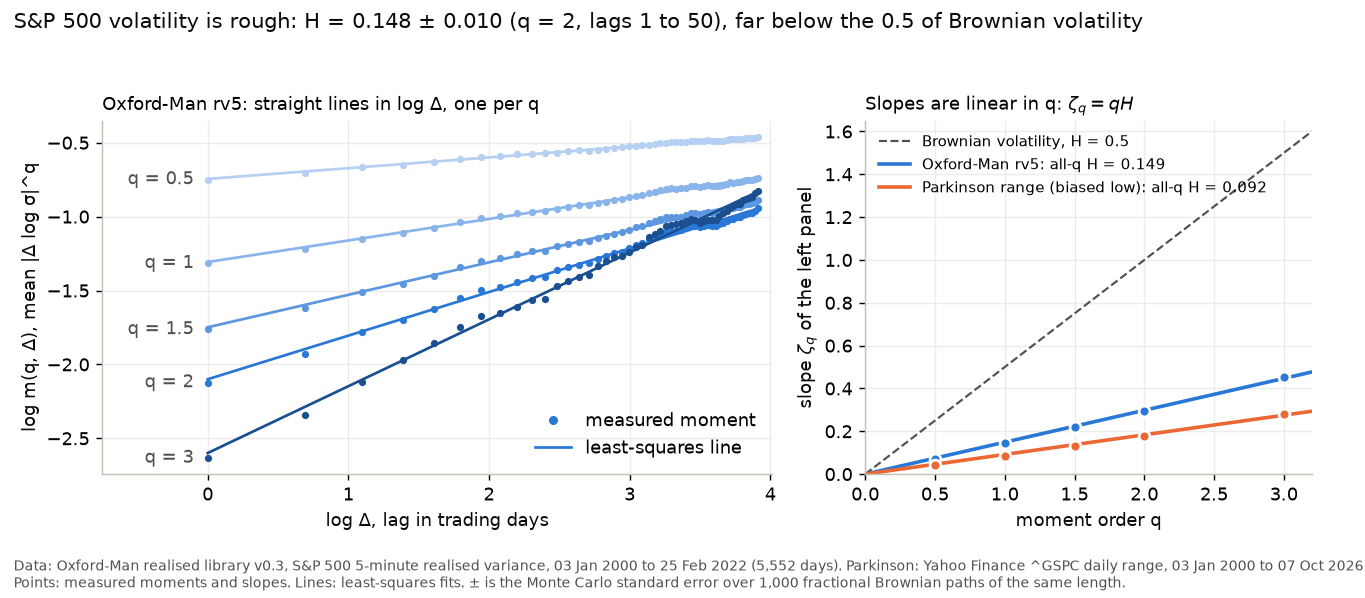
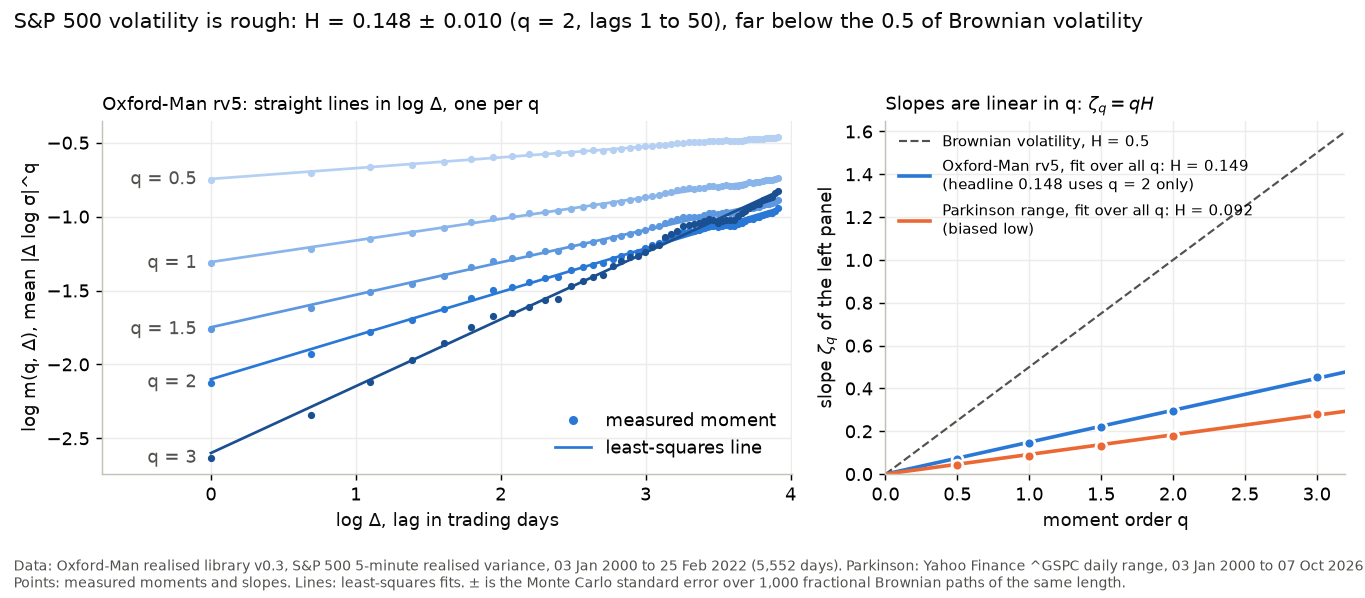
Label the all-q fit in the README figure legend
The legend of docs/hurst_spx.png now says the 0.149 is a fit over all q and the 0.148 headline uses q = 2 only.

diff --git a/docs/make_readme_figure.py b/docs/make_readme_figure.py
@@ -69,11 +69,16 @@ ax1.legend(
 
 qq = np.linspace(0, 3.2, 10)
 ax2.plot(qq, 0.5 * qq, "--", lw=1.2, color=MUTED, label="Brownian volatility, H = 0.5")
-for fit, c, name in [
-    (fit_om, BLUE, "Oxford-Man rv5"),
-    (fit_pk, ORANGE, "Parkinson range (biased low)"),
+for fit, c, label in [
+    (
+        fit_om,
+        BLUE,
+        f"Oxford-Man rv5, fit over all q: H = {fit_om.H:.3f}\n"
+        f"(headline {head.H:.3f} uses q = 2 only)",
+    ),
+    (fit_pk, ORANGE, f"Parkinson range, fit over all q: H = {fit_pk.H:.3f}\n(biased low)"),
 ]:
-    ax2.plot(qq, fit.H * qq, "-", lw=2, color=c, label=f"{name}: all-q H = {fit.H:.3f}")
+    ax2.plot(qq, fit.H * qq, "-", lw=2, color=c, label=label)
     ax2.plot(fit.qs, fit.zetas, "o", ms=6, color=c, mec="white", mew=1.5)
 ax2.set_xlim(0, 3.2)
 ax2.set_ylim(0, 1.65)
